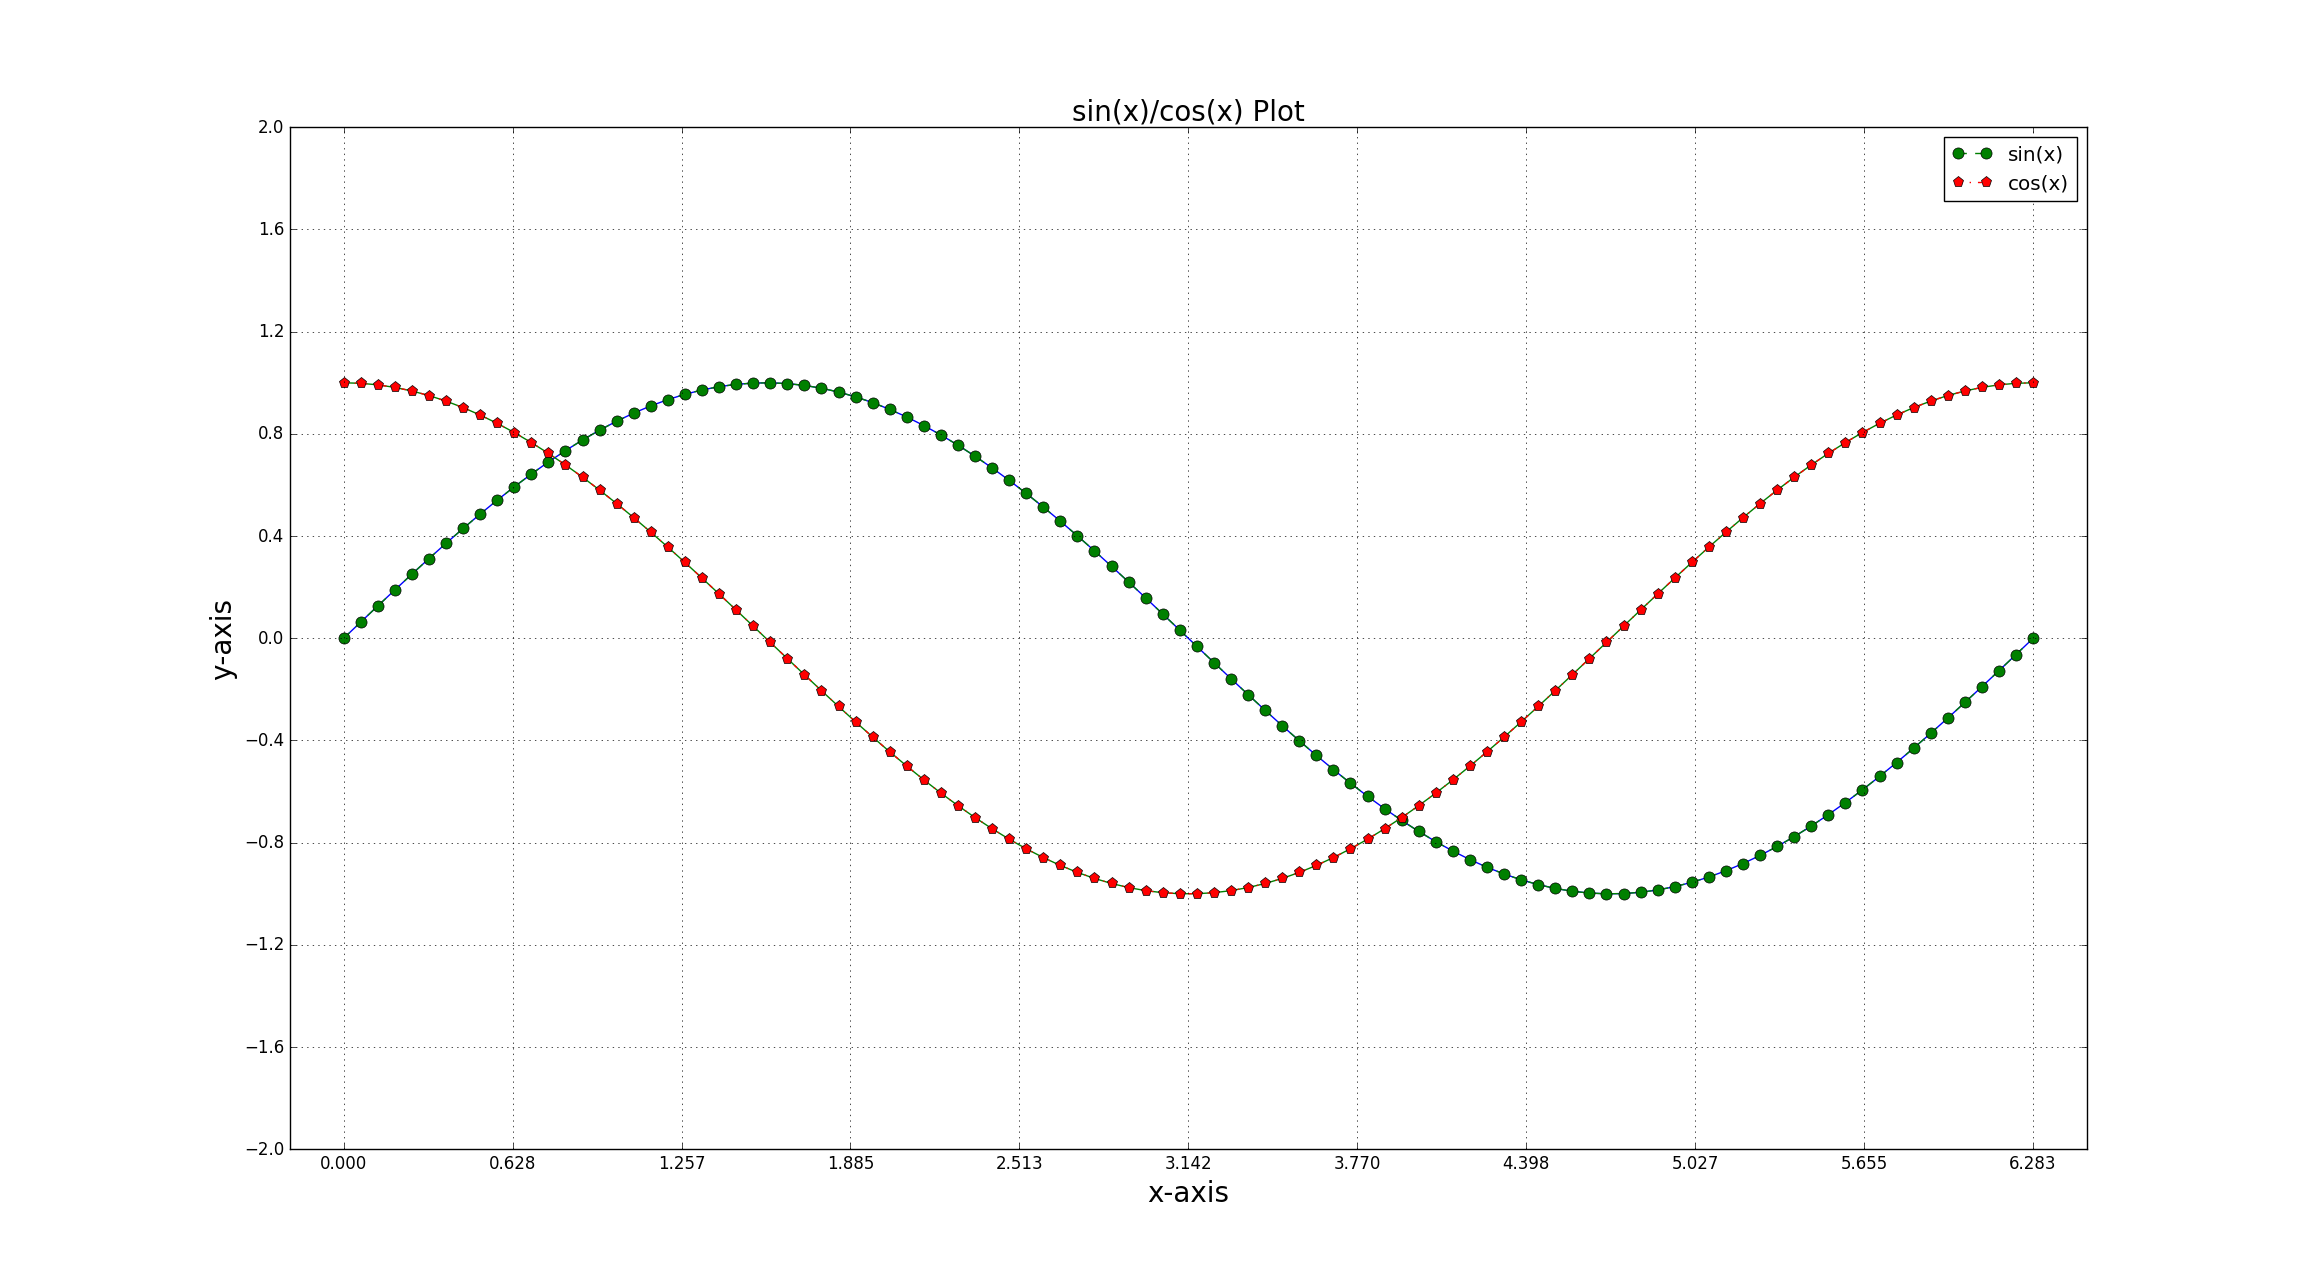
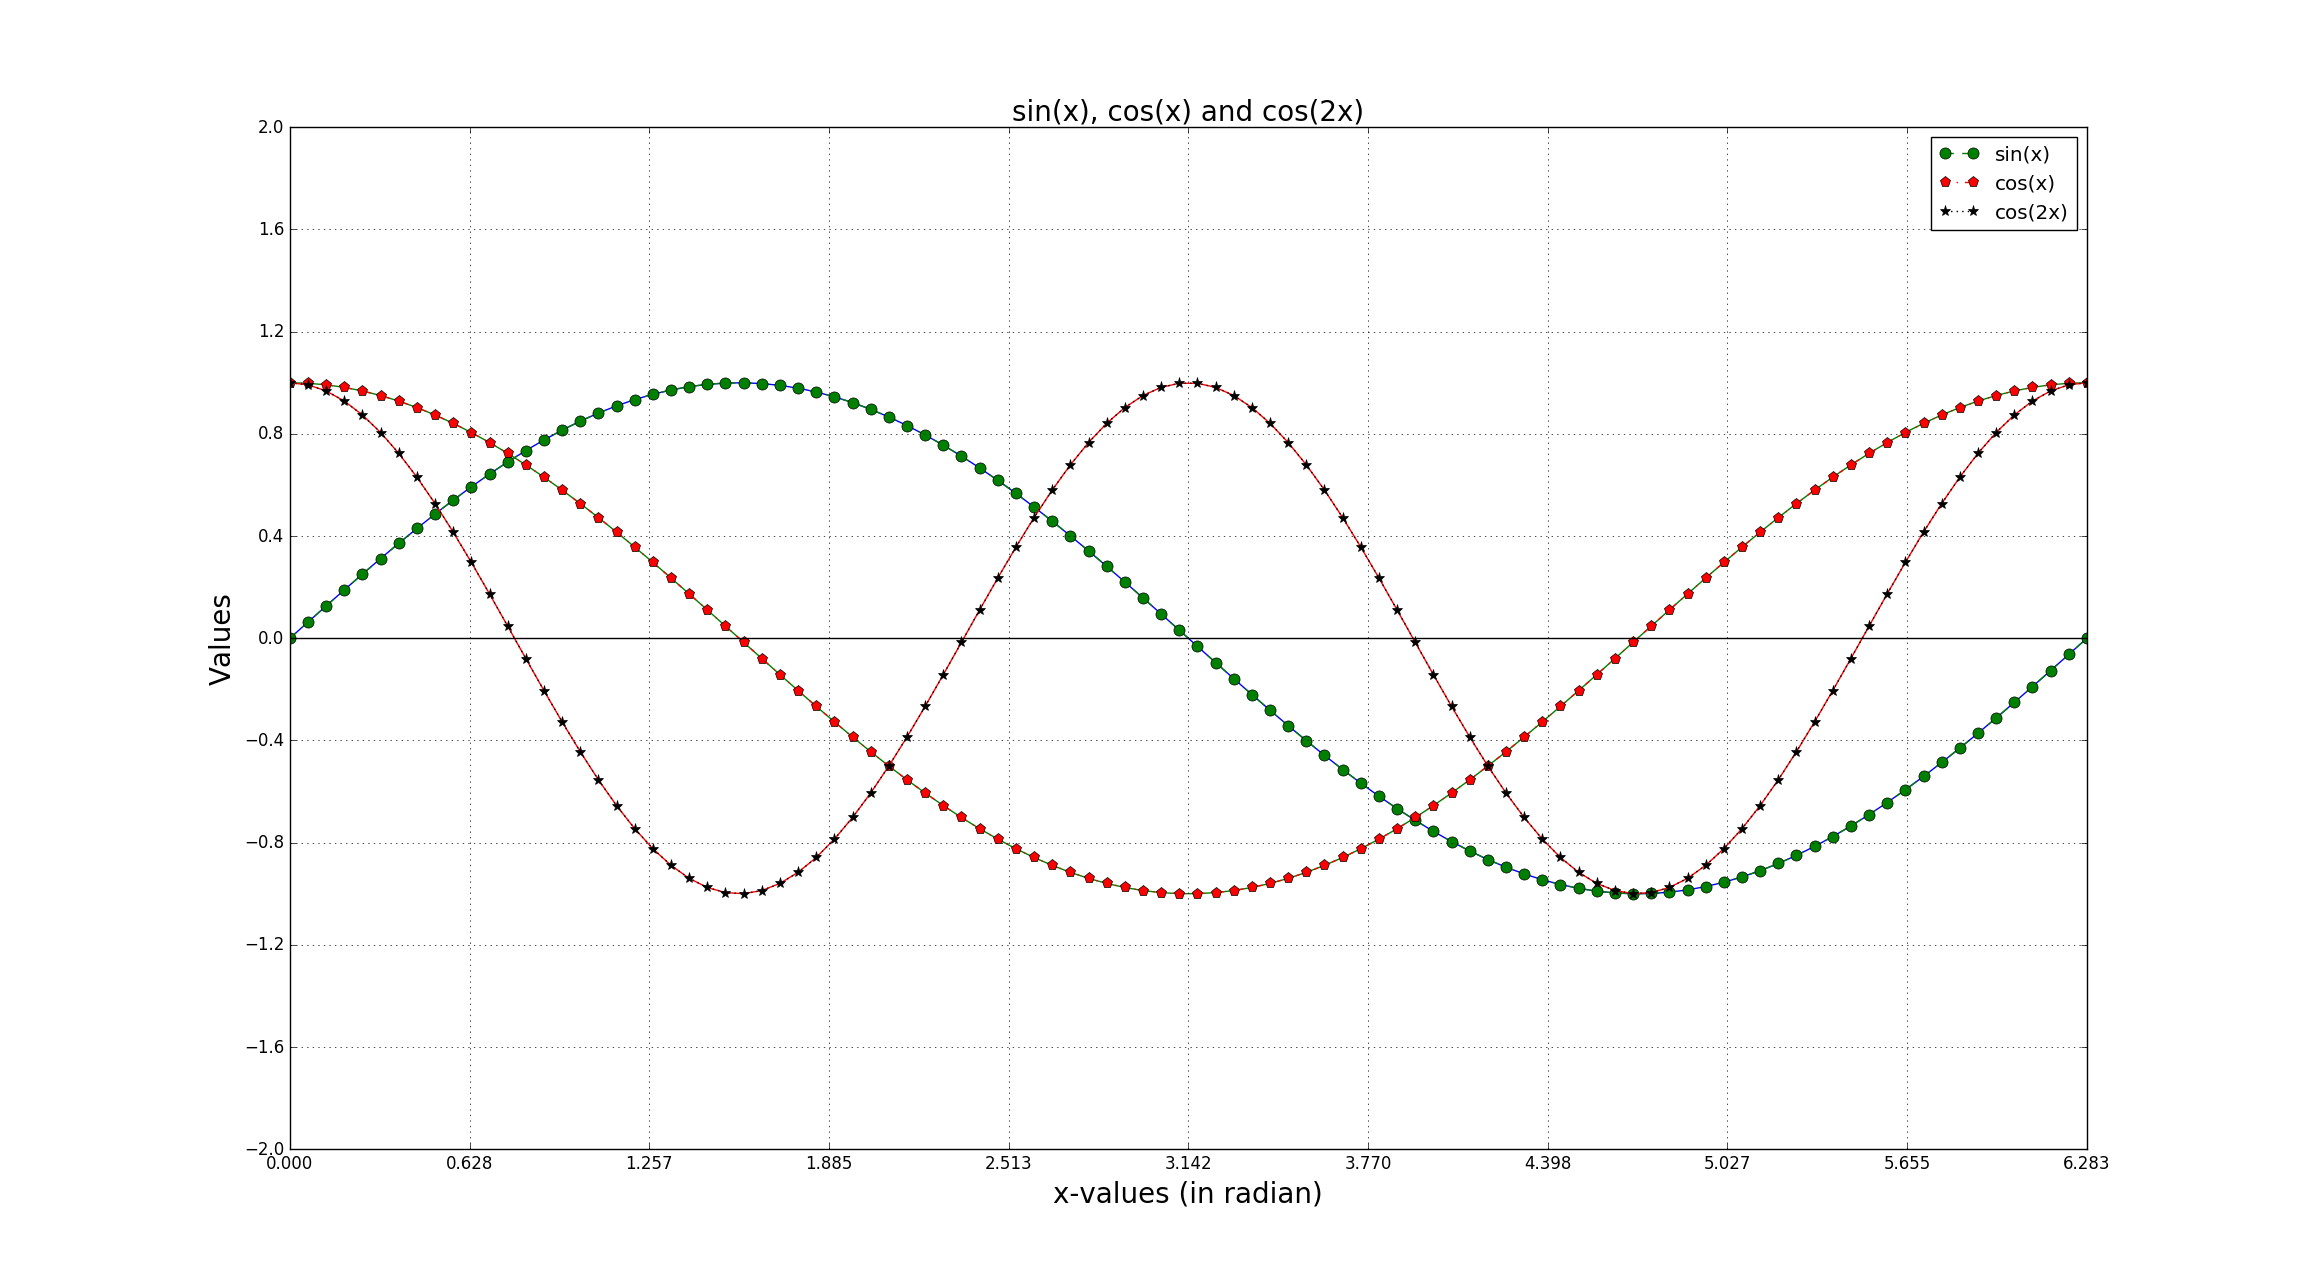
Some cleanup.

diff --git a/PlotScript.py b/PlotScript.py
@@ -2,7 +2,7 @@ import matplotlib.pyplot as plt
 import numpy as np
 import math
 
-margin_x = 0.2
+margin_x = 0.0
 margin_y = 1.0
 numOfTicksOnYAxis = 11
 numOfTicksOnXAxis = 11
@@ -18,14 +18,6 @@ def plot(x, y, label=""):
     counter[0] += 1
     plt.plot(x, y)
 
-    #  Fixing the length of axes
-    plt.xlim((min(x) - margin_x), max(x) + margin_x)  # touple of min, max
-    plt.ylim((min(y) - margin_y), max(y) + margin_y)  # touple of min, max
-
-    #  Marking ticks on axes
-    # there is a common plot.xticks in main function
-    plt.yticks(np.linspace(min(y) - margin_y, max(y) + margin_y, numOfTicksOnYAxis))
-
     plt.plot(x, y,
              color=colors[counter[0] % len(colors)],
              marker=markers[counter[0] % len(markers)],
@@ -38,10 +30,27 @@ def main():
     x_axis = np.linspace(0, 2*np.pi, 100)  # start, stop, number of divisions
     y_axis_sin = [math.sin(x) for x in x_axis]
     y_axis_cos = [math.cos(x) for x in x_axis]
+    y_axis_cos2x = [math.cos(2*x) for x in x_axis]
+
     plot(x_axis, y_axis_sin, "sin(x)")
     plot(x_axis, y_axis_cos, "cos(x)")
+    plot(x_axis, y_axis_cos2x, "cos(2x)")
 
-    plt.title("sin(x) vs cos(x)", fontsize=font_size)
+    min_x, max_x = min(x_axis), max(x_axis)
+    min_y, max_y = min(min(y_axis_sin), min(y_axis_cos)), max(max(y_axis_sin), max(y_axis_cos))
+
+    # draw y = 0
+    plt.plot([min_x - margin_x, max_x + margin_x], [0, 0], color='k')
+
+    # draw x = 0 line
+    # plt.plot([0, 0], [min_y - margin_y, max_y + margin_y], color='k')
+
+    #  Fixing the length of axes
+    plt.xlim(min_x - margin_x, max_x + margin_x)  # touple of min, max
+    plt.ylim(min_y - margin_y, max_y + margin_y)  # touple of min, max
+
+    #  Marking ticks on axes
+    plt.yticks(np.linspace(min_y - margin_y, max_y + margin_y, numOfTicksOnYAxis))
 
     # plt.xticks: if an array of strings is provided as 2nd argument, it links with corresponding entry of 1st array
     # x_ticks_array = ["0", "pi/2", "pi", "1.5*pi", "2* pi"]
@@ -49,7 +58,8 @@ def main():
     plt.xticks(np.linspace(0, 2*np.pi, numOfTicksOnXAxis))
 
     plt.xlabel("x-values (in radian)", fontsize=font_size)
-    plt.ylabel("sin(x)/cos(x)", fontsize=font_size)
+    plt.ylabel("Values", fontsize=font_size)
+    plt.title("sin(x), cos(x) and cos(2x)", fontsize=font_size)
 
     plt.grid()
     plt.legend()
